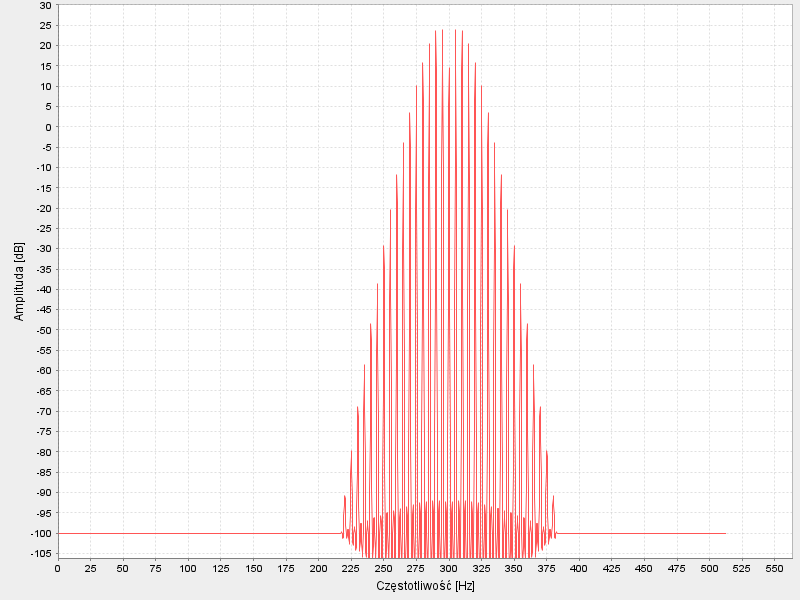
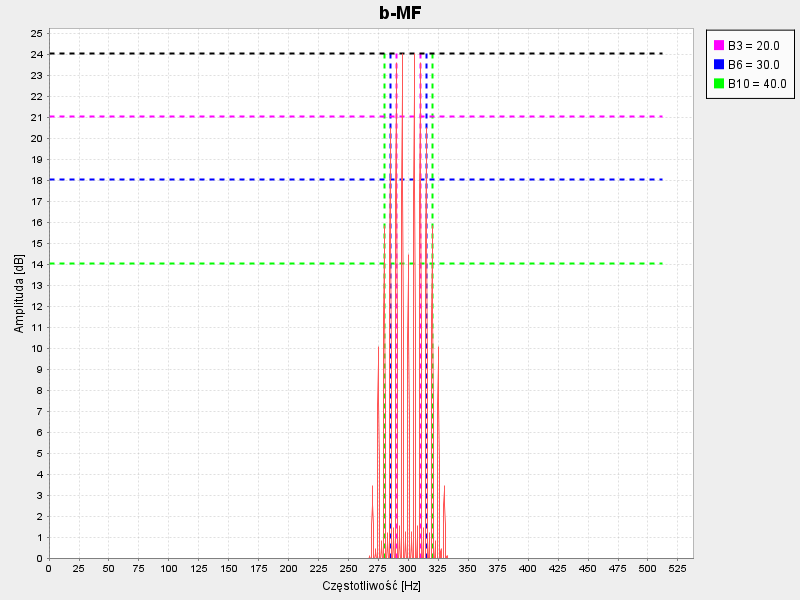
git

diff --git a/src/Chart/Chart.java b/src/Chart/Chart.java
@@ -1,20 +1,30 @@
 package Chart;
 
-import org.jfree.chart.ChartFactory;
-import org.jfree.chart.ChartUtilities;
-import org.jfree.chart.JFreeChart;
+import org.jfree.chart.*;
 import org.jfree.chart.axis.LogAxis;
 import org.jfree.chart.axis.NumberAxis;
+import org.jfree.chart.block.BlockBorder;
+import org.jfree.chart.block.BlockContainer;
+import org.jfree.chart.block.ColumnArrangement;
+import org.jfree.chart.plot.DatasetRenderingOrder;
 import org.jfree.chart.plot.PlotOrientation;
 import org.jfree.chart.plot.XYPlot;
+import org.jfree.chart.renderer.xy.XYLineAndShapeRenderer;
 import org.jfree.chart.renderer.xy.XYSplineRenderer;
+import org.jfree.chart.title.LegendTitle;
 import org.jfree.data.xy.XYSeries;
 import org.jfree.data.xy.XYSeriesCollection;
+import org.jfree.ui.HorizontalAlignment;
+import org.jfree.ui.RectangleEdge;
+import org.jfree.ui.RectangleInsets;
+import org.jfree.ui.VerticalAlignment;
 
 
 import java.awt.*;
 import java.io.File;
 import java.io.IOException;
+import java.util.HashMap;
+import java.util.Map;
 
 
 public class Chart {
@@ -92,5 +102,107 @@ public class Chart {
         }
     }
 
+    public static void saveChart(XYSeries series, String title, String Xname, String Yname, String filename, int[] B, double[] Bwidth, double[] min, double[] max) {
+        XYSeriesCollection dataset = new XYSeriesCollection();
+        dataset.addSeries(series);
+
+        NumberAxis xAxis = new NumberAxis(Xname);
+        xAxis.setAutoRange(true);
+        NumberAxis yAxis = new NumberAxis(Yname);
+
+        XYSeriesCollection extraLines = new XYSeriesCollection();
+
+        double yTop = series.getMaxY();
+        double end = series.getMaxX();
+        XYSeries lineTop = new XYSeries("lineTop");
+        lineTop.add(0, yTop);
+        lineTop.add(end, yTop);
+        extraLines.addSeries(lineTop);
+
+        if (B != null && min != null && max != null && B.length == min.length && B.length == max.length && Bwidth != null && B.length == Bwidth.length) {
+            for (int i = 0; i < B.length; i++) {
+                double yBottom = yTop - B[i];
+
+                XYSeries lineBottom = new XYSeries("lineBottom_" + i);
+                lineBottom.add(0, yBottom);
+                lineBottom.add(end, yBottom);
+
+                XYSeries lineMin = new XYSeries("lineMin_" + i);
+                lineMin.add(min[i], 0);
+                lineMin.add(min[i], yTop);
+
+                XYSeries lineMax = new XYSeries("lineMax_" + i);
+                lineMax.add(max[i], 0);
+                lineMax.add(max[i], yTop);
+
+                extraLines.addSeries(lineBottom);
+                extraLines.addSeries(lineMin);
+                extraLines.addSeries(lineMax);
+            }
+        }
+
+        XYSplineRenderer renderer = new XYSplineRenderer();
+        renderer.setSeriesShapesVisible(0, false);
+
+        XYPlot plot = new XYPlot(dataset, xAxis, yAxis, renderer);
+
+        if (extraLines.getSeriesCount() > 0) {
+            XYLineAndShapeRenderer extraRenderer = new XYLineAndShapeRenderer(true, false);
+            Stroke dashed = new BasicStroke(2.0f, BasicStroke.CAP_BUTT, BasicStroke.JOIN_BEVEL, 0, new float[]{5}, 0);
+            Stroke dotted = new BasicStroke(2.0f, BasicStroke.CAP_BUTT, BasicStroke.JOIN_BEVEL, 0, new float[]{5}, 0);
+
+            Color[] colors = new Color[]{Color.MAGENTA, Color.BLUE, Color.GREEN, Color.ORANGE, Color.MAGENTA, Color.CYAN, Color.PINK, Color.YELLOW};
+
+            extraRenderer.setSeriesPaint(0, Color.BLACK);
+            extraRenderer.setSeriesStroke(0, dashed);
+
+            for (int i = 0; i < B.length; i++) {
+                Color color = colors[i % colors.length];
+                int baseIndex = i * 3 + 1;
+                extraRenderer.setSeriesPaint(baseIndex, color);
+                extraRenderer.setSeriesStroke(baseIndex, dashed);
+                extraRenderer.setSeriesPaint(baseIndex + 1, color);
+                extraRenderer.setSeriesStroke(baseIndex + 1, dotted);
+                extraRenderer.setSeriesPaint(baseIndex + 2, color);
+                extraRenderer.setSeriesStroke(baseIndex + 2, dotted);
+            }
+
+            plot.setDataset(1, extraLines);
+            plot.setRenderer(1, extraRenderer);
+            plot.setDatasetRenderingOrder(DatasetRenderingOrder.REVERSE);
+
+            LegendItemCollection legendItems = new LegendItemCollection();
+            for (int i = 0; i < B.length; i++) {
+                Color color = colors[i % colors.length];
+                String label = "B" + B[i] + " = " + Bwidth[i];
+                LegendItem item = new LegendItem(label, null, null, null, new Rectangle(10, 10), color);
+                legendItems.add(item);
+            }
+            plot.setFixedLegendItems(legendItems);
+        }
+
+        JFreeChart chart = new JFreeChart(title, JFreeChart.DEFAULT_TITLE_FONT, plot, false);
+        LegendTitle legend = new LegendTitle(plot);
+        legend.setPosition(RectangleEdge.RIGHT);
+        legend.setHorizontalAlignment(HorizontalAlignment.RIGHT);
+        legend.setVerticalAlignment(VerticalAlignment.TOP);
+        legend.setBackgroundPaint(new Color(255, 255, 255, 200));
+        legend.setFrame(new BlockBorder(Color.BLACK));
+        legend.setItemFont(new Font("SansSerif", Font.PLAIN, 12));
+        legend.setMargin(5, 5, 5, 5);
+        legend.setPadding(5, 5, 5, 5);
+        legend.setLegendItemGraphicPadding(new RectangleInsets(2, 2, 2, 2));
+        legend.setItemLabelPadding(new RectangleInsets(2, 2, 2, 2));
+
+        chart.addSubtitle(legend);
+
+        try {
+            File file = new File(filename);
+            ChartUtilities.saveChartAsPNG(file, chart, 800, 600);
+            System.out.println("Zapisano wykres: " + filename);
+        } catch (IOException e) {
+            e.printStackTrace();
+        }
+    }
 
 }

diff --git a/src/Lab5/Zad1.java b/src/Lab5/Zad1.java
@@ -24,6 +24,7 @@ public class Zad1 {
         char[] C = {'a', 'b', 'c'};
         char[] Z = {'A', 'P', 'F'};
         int[] B = {3, 6, 10};
+        double[] Bwidth = new double[B.length];
 
         double[] kA = {0.5, 10, 40};
         double[] kP = {-4.0 * Math.PI, 5.0 * Math.PI, 4.0 * Math.PI};
@@ -62,7 +63,7 @@ public class Zad1 {
                     }
                     series.add(t, z[i]);
                 }
-                Chart.saveChart(series, mSeries, "Czas [s]", "Amplituda", "src/Lab5/plots/" + c + "-z" + Z[o] + ".png");
+                //Chart.saveChart(series, mSeries, "Czas [s]", "Amplituda", "src/Lab5/plots/" + c + "-z" + Z[o] + ".png");
 
                 XYSeries MSeries = new XYSeries(c + "M");
                 FastFourierTransformer fft = new FastFourierTransformer(DftNormalization.STANDARD);
@@ -78,11 +79,33 @@ public class Zad1 {
                     double complexi = Math.sqrt(Math.pow(Re, 2) + Math.pow(Im, 2));
                     double dB = 10.0 * Math.log10(complexi);
 
-                    double prog = -100;
+                    double prog = 0;
 
                     MSeries.add(fr, Math.max(dB, prog));
                 }
-                Chart.saveChart(MSeries, "Częstotliwość [Hz]", "Amplituda [dB]", "src/Lab5/plots/" + c + "-M" + Z[o] + ".png");
+
+                double top = MSeries.getMaxY();
+                double[] min = new double[B.length];
+                double[] max = new double[B.length];
+                double[] minV = new double[B.length];
+                double[] maxV = new double[B.length];
+                for (int i = 0; i < B.length; i++) {
+                    double bottom = top - B[i];
+                    boolean isMin = false;
+                    series:
+                    for (int j = 0; j < MSeries.getItemCount(); j++) {
+                        double v = MSeries.getY(j).doubleValue();
+                        if (!isMin && v >= bottom) {
+                            min[i] = MSeries.getX(j).doubleValue();
+                            isMin = true;
+                        }
+                        if (v >= bottom) {
+                            max[i] = MSeries.getX(j).doubleValue();
+                        }
+                    }
+                    Bwidth[i] = max[i] - min[i];
+                }
+                Chart.saveChart(MSeries,c + "-M" + Z[o] , "Częstotliwość [Hz]", "Amplituda [dB]", "src/Lab5/plots/" + c + "-M" + Z[o] + ".png", B, Bwidth, min, max);
             }
         }
     }
